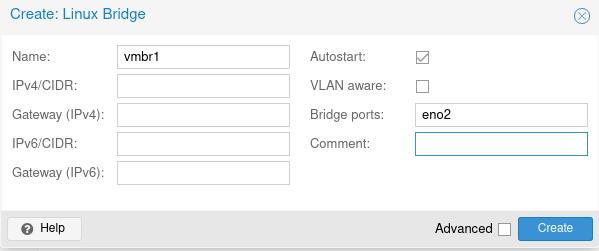
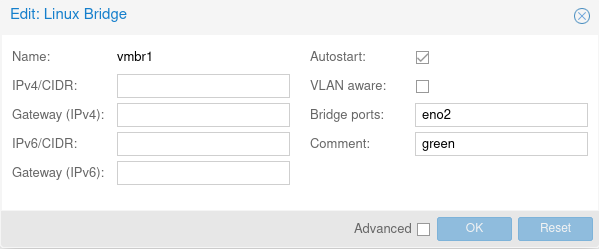
Set the commenting of the network bridges inserted.

diff --git a/source/installation/proxmox/index.rst b/source/installation/proxmox/index.rst
@@ -261,7 +261,7 @@ Nach der zuvor beschriebenen Erstinstallation von Proxmox wurde bislang nur eine
 
 Für die internen virtuellen Netze ist also eine zweite Bridge zu erstellen, die an die zweite Netzwerkkarte direkt gebunden wird. Dieser wird allerdings keine IP-Adresse zugeordnet. 
 
-Ausgangspunkt: ``Host hv01 -> Network``
+Ausgangspunkt: ``Host hv01`` --> ``Network``
 
 Die bisherige Netzwerkkonfiguration stellt sich wie folgt dar:
 
@@ -293,9 +293,26 @@ Für die folgende Überprüfung öffnet du nochmals die Konsole auf dem Hypervis
 
    Die Bezeichnungen für die Netzwerkkarten eno1, eno2 können je nach eingesetztem System von der dargestellten Bezeichnung abweichen.
 
-Nun erstellst Du die ``zweite Bridge - vmbr0``:
+Für das weitere Vorgehen, ist es hilfreich die Funktion der Kommentierung der Netzwerkbrücken zu nutzen.
+Diese ist für die vmbr0 bisher noch nicht gesetzt.
 
-Dazu wähle das Menü ``Datacenter -> hv01 -> Network ->  Create -> Linux Bridge``
+.. figure:: media/install-on-proxmox_13_network-vmbr0.png
+   :align: center
+   :alt: Proxmox-Übersicht hv01 - Network-vmbr0-edit
+
+Markiere wie gezeigt ``vmbr0`` und betätige den ``Edit``-Button um das Konfigurationsfenster zu öffnen. 
+
+.. figure:: media/install-on-proxmox_13_network-vmbr0-comment.png
+   :align: center
+   :alt: Proxmox-Übersicht hv01 - Network-vmbr0-comment
+
+Trage unter ``Comment`` einen Kommentar ein der veranschaulich, dass diese Brücke die Verbindung zum Internet stellt. Zum Beispiel wie hier gezeigt ``red``, den bei uns historisch gewachsenen Begriff für dieses Interface.
+
+####
+
+Nun erstellst Du die zweite Bridge ``vmbr1``:
+
+Dazu wähle das Menü ``Datacenter`` --> ``hv01`` --> ``Network`` -->  ``Create`` --> ``Linux Bridge``
 
 .. figure:: media/install-on-proxmox_14_network-add-bridge.png
    :align: center
@@ -542,7 +559,7 @@ In dem nun geöffneten Fenster trägst du die URL
    
    https://releases.ubuntu.com/bionic/ubuntu-18.04.6-live-server-amd64.iso
 
-ein (copy&paste), anschleißend betätigst dann den Buttom ``Query URL``.
+ein (copy&paste). Anschließend betätigst du dann den Buttom ``Query URL``.
 
 .. figure:: media/proxmox-iso-download-ubuntu_01.png
    :align: center
